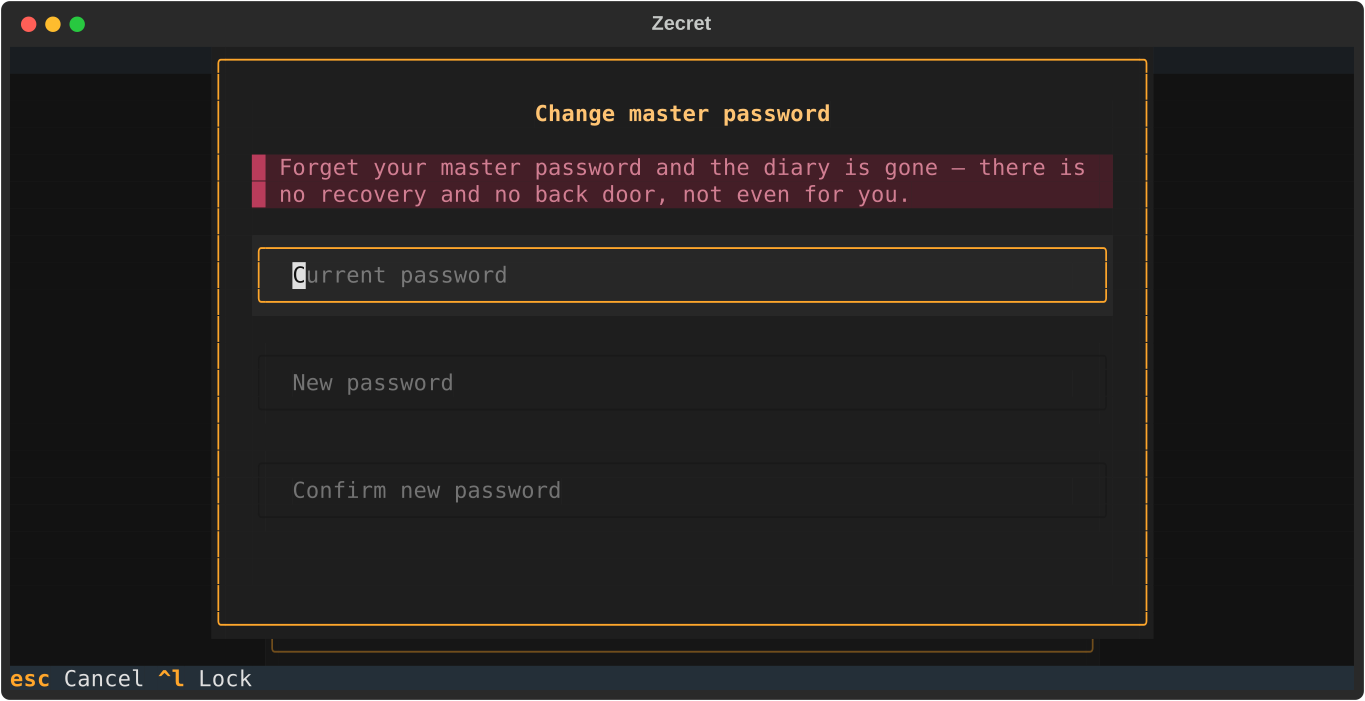
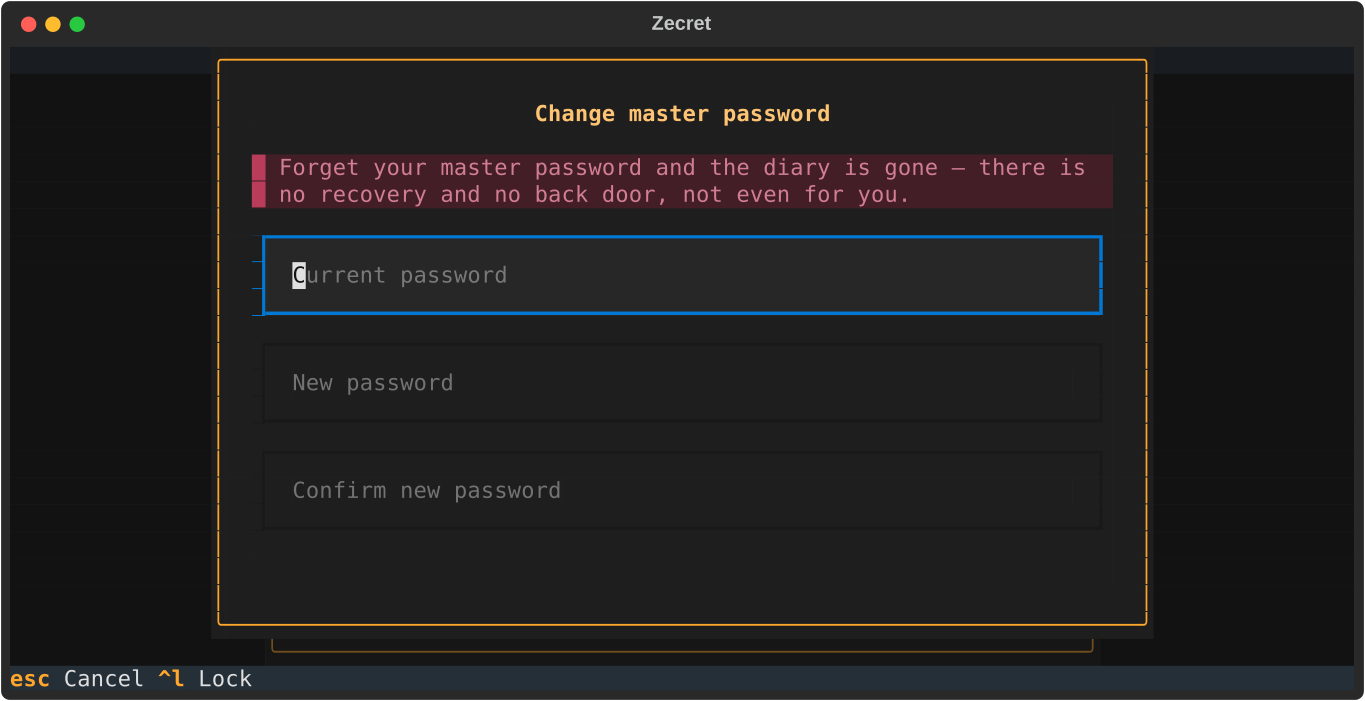
revert: put the password fields and settings dropdowns back in Textual's own frame

Changed region(s): [[0.1846, 0.3295, 0.8308, 0.4494]]

diff --git a/tests/test_chrome.py b/tests/test_chrome.py
@@ -40,9 +40,6 @@ Required coverage:
     - Taking focus does not resize one. The frame is painted over the
       button's edge rather than carved out of its inside, so the answer
       you are about to press is exactly the size of the two beside it.
-    - Every field is framed the same way: rounded, and in $accent while it
-      has focus. The password fields and the settings dropdowns wore
-      Textual's own tall frame in $primary, which lit up blue on focus.
     - Text lines up down the left edge of every screen. The gutter in
       app.tcss lines the borders up; what a reader follows is where the
       text starts, and Input and TextArea pad their insides by different
@@ -609,54 +606,3 @@ def test_opening_a_day_has_one_name():
     assert (
         name(EntryListScreen, "enter") == name(CalendarScreen, "e") == name(CalendarScreen, "enter")
     )
-
-
-# --- how a field is framed ---------------------------------------------------
-
-
-def frame(widget) -> tuple[str, str]:
-    """The kind and colour of a widget's top border."""
-    kind, color = widget.styles.border_top
-    return kind, color.hex
-
-
-async def frames_of(app: ZecretApp, pilot, widget) -> tuple[tuple[str, str], tuple[str, str]]:
-    """How `widget` is framed without focus, and then with it."""
-    app.screen.set_focus(None)
-    await pilot.pause()
-    blurred = frame(widget)
-    widget.focus()
-    await pilot.pause()
-    return blurred, frame(widget)
-
-
-@pytest.mark.parametrize("theme", ["textual-dark", "textual-light"])
-async def test_every_field_is_framed_like_the_search_box(diary_path, theme):
-    app = ZecretApp(diary_path=diary_path)
-    async with app.run_test() as pilot:
-        app.theme = theme
-        await pilot.pause()
-        unlocking = await frames_of(app, pilot, app.screen.query_one("#password", Input))
-        await unlock(pilot)
-        await pilot.press("slash")
-        await pilot.pause()
-        search = await frames_of(app, pilot, app.screen.query_one("#query", Input))
-        await pilot.press("escape", "s")
-        await pilot.pause()
-        picker = app.screen.query_one("#theme")
-        current = picker.query_one("SelectCurrent")
-        app.screen.set_focus(None)
-        await pilot.pause()
-        picker_blurred = frame(current)
-        picker.focus()
-        await pilot.pause()
-        picker_focused = frame(current)
-        app.push_screen(PasswordScreen())
-        await pilot.pause()
-        dialog = await frames_of(app, pilot, app.screen.query_one("#new", Input))
-
-        assert search[0][0] == search[1][0] == "round"
-        assert search[0] != search[1], "focus should show"
-        assert unlocking == search, "the lock screen's password field"
-        assert dialog == search, "the password dialog's fields"
-        assert (picker_blurred, picker_focused) == search, "the settings dropdowns"

diff --git a/CHANGELOG.md b/CHANGELOG.md
@@ -37,9 +37,6 @@ file matters as much as that does.
 - **Deleting a day says so**, naming the day, as saving and locking do.
 - **A new day stops being called "new" in the editor's title as soon as
   it is saved**, rather than the next time it is opened.
-- **The password fields and the settings dropdowns are framed like every
-  other field**, in the same rounded border and the theme's accent colour
-  while you are in them, rather than Textual's own blue.
 - **Two Zecrets on one diary can no longer lose an entry while one of them
   is unlocking.** If the other one saved during the second or so it takes
   to open the diary, the one being unlocked took that save as its starting
